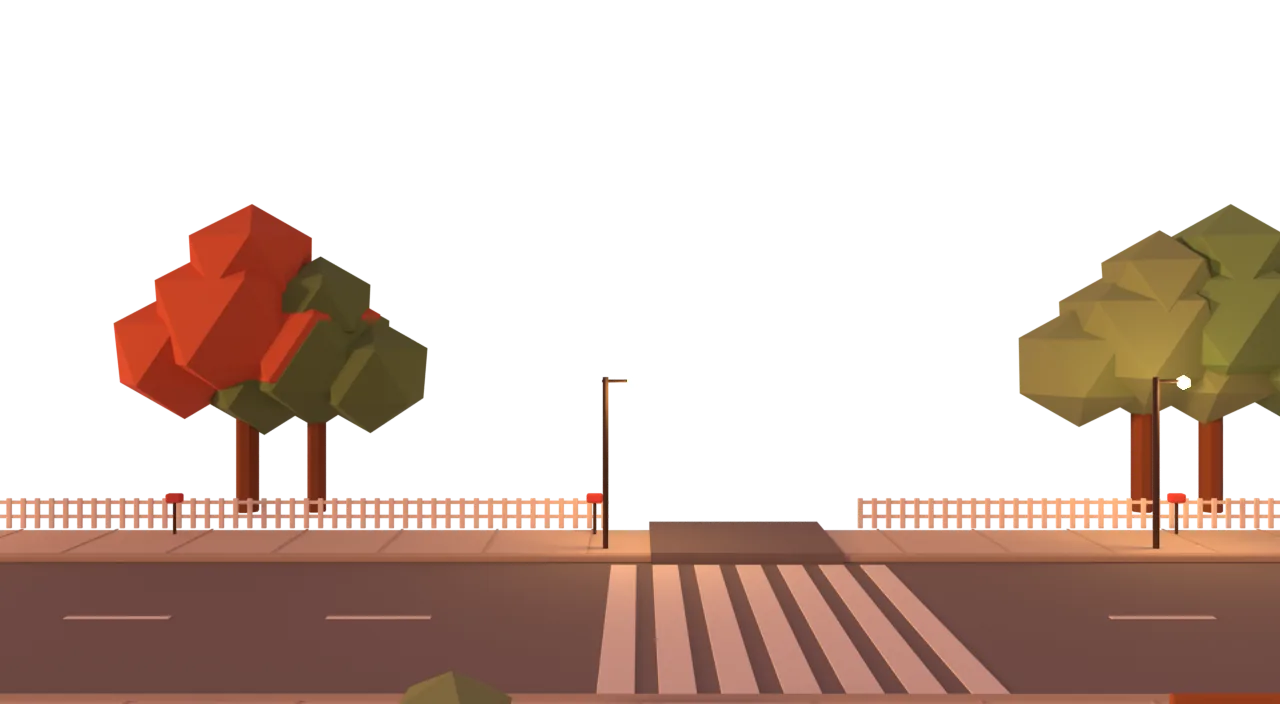
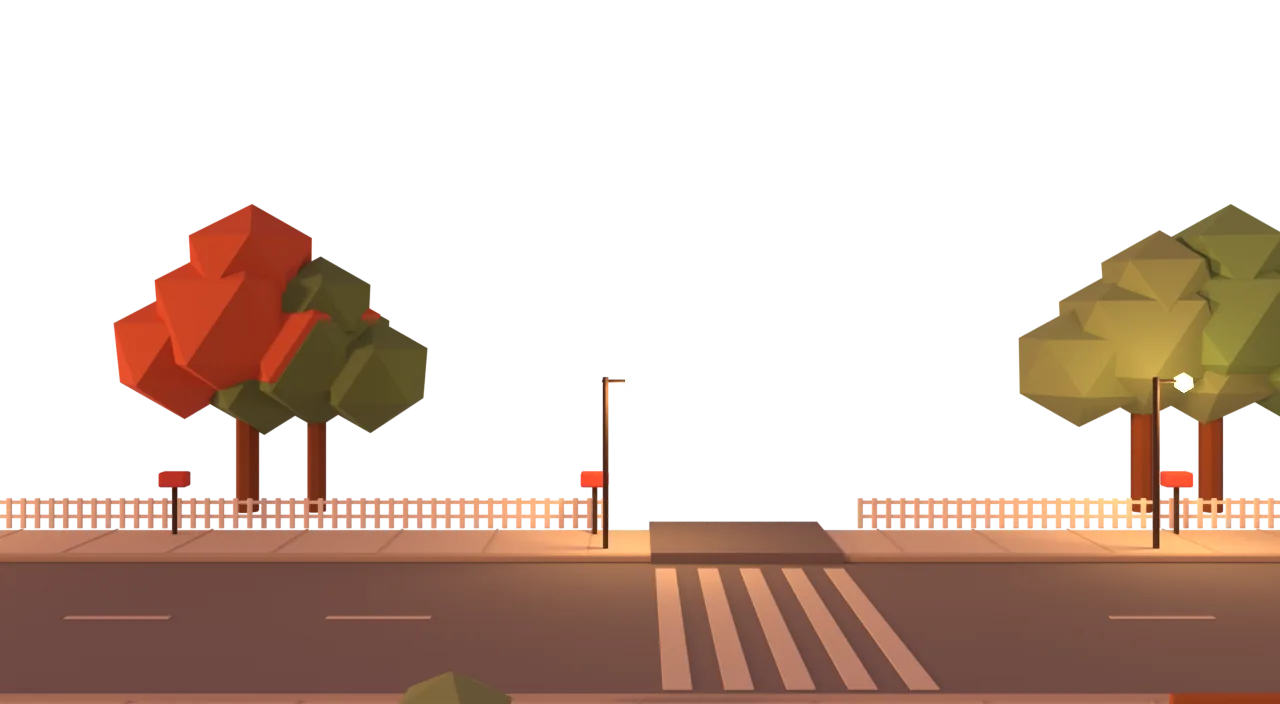
fix(ios): suburb diorama: warmer night, quieter crosswalk, bigger mailboxes and steeple

diff --git a/tools/scene-bake/city_diorama.py b/tools/scene-bake/city_diorama.py
@@ -42,7 +42,7 @@ WALLS = [0xF6E4C8, 0xE8D2B2, 0xF2C79A, 0xE9A98A, 0xD8653F, 0xB9C9A2, 0xF0B7B0, 0
 ROOFS = [0xB46C3C, 0x8C4F2B, 0xA85A3A, 0x7A5A4A, 0xC8653F]
 WOOD = 0xB46C3C
 LEAF = [0x93A86A, 0x6F8A4E, 0x7FA35F, 0xA3B56F]
-ROAD_C, SIDEWALK_C, CURB_C, STRIPE_C = 0x8A7F78, 0xE6D4B8, 0xCDB89A, 0xFAF1DF
+ROAD_C, SIDEWALK_C, CURB_C, STRIPE_C = 0x8A7F78, 0xE6D4B8, 0xCDB89A, 0xE6D6BA
 CAR_PAINTS = [0xE0554A, 0xE3B45C, 0x6F8FB0, 0x7C9A7E, 0xF2E6D2, 0xD8653F]
 
 # Per time of day: sky top / horizon, sun colour / strength / elevation / azimuth (degrees), ambient, share of lit
@@ -52,7 +52,7 @@ LOOKS = {
                 lit=0.0, lamps=False, glow=0, haze=0.5),
     "dusk": dict(top=0x6C6FB4, horizon=0xF7A872, sun=0xFFB27A, sun_strength=2.0, elev=9, azim=-70, ambient=0.8,
                  lit=0.4, lamps=True, glow=5, haze=0.5),
-    "night": dict(top=0x141A3E, horizon=0x3A3C78, sun=0xA9B9FF, sun_strength=0.35, elev=38, azim=-55, ambient=0.28,
+    "night": dict(top=0x2A2352, horizon=0x6A4F7E, sun=0xC9B9FF, sun_strength=0.5, elev=38, azim=-55, ambient=0.4,
                   lit=0.62, lamps=True, glow=8, haze=0.45),
 }
 LOOK = LOOKS[TIME]
@@ -165,7 +165,7 @@ def blob(layer, radius, at, mat, scale=(1, 1, 1)):
 def window_glass(haze, lit):
     if lit and LOOK["glow"] > 0:
         warm = LIT.random() < 0.8
-        return material(0xFFD27A if warm else 0xCFE6FF, haze=haze * 0.5, glow=LOOK["glow"] * LIT.uniform(0.6, 1.0),
+        return material(0xFFD27A if warm else 0xCFE6FF, haze=haze * 0.5, glow=LOOK["glow"] * 0.6 * LIT.uniform(0.6, 1.0),
                         glow_color=0xFFC070 if warm else 0xBFD8FF, key=("lit", warm, LIT.randint(0, 3)))
     sky = 0x9DB4C8 if TIME == "day" else (0x6F7396 if TIME == "dusk" else 0x1E2447)
     return material(sky, rough=0.25, haze=haze, key=("glass", TIME))
@@ -283,19 +283,19 @@ def fence(layer, x0, x1, y, haze=0.0):
 
 
 def mailbox(layer, x, y):
-    cyl(layer, 0.05, 1.0, (x, y, 0.18), material(0x4A3A33, key="post"), verts=5)
-    box(layer, (0.5, 0.25, 0.28), (x, y, 1.15), material(0xE0554A, key="mail"), bevel=0.06)
+    cyl(layer, 0.08, 1.5, (x, y, 0.18), material(0x4A3A33, key="post"), verts=5)
+    box(layer, (0.85, 0.42, 0.45), (x, y, 1.65), material(0xE0554A, key="mail"), bevel=0.06)
 
 
 def lamp(layer, x, y, haze=0.0):
     post = material(0x4A3A33, haze=haze)
     cyl(layer, 0.09, 5.0, (x, y, 0.15), post, verts=6)
     box(layer, (0.9, 0.08, 0.08), (x + 0.35, y, 5.0), post, bevel=0.02)
-    bulb = material(0xFFE3A8, glow=12 if LOOK["lamps"] else 0.0, glow_color=0xFFC27A, key="bulb")
-    blob(layer, 0.2, (x + 0.8, y, 5.0), bulb)
+    bulb = material(0xFFE3A8, glow=6 if LOOK["lamps"] else 0.0, glow_color=0xFFC27A, key="bulb")
+    blob(layer, 0.28, (x + 0.8, y, 5.0), bulb)
     if LOOK["lamps"]:
         light = bpy.data.lights.new(f"l{x}", "POINT")
-        light.energy = 450
+        light.energy = 900
         light.color = rgb(0xFFC27A)
         light.shadow_soft_size = 0.4
         o = bpy.data.objects.new(f"l{x}", light)
@@ -319,10 +319,10 @@ def build_far():
         blob("far", 38, (x, 120 + (i % 2) * 15, -2), material(hill[i % 3], haze=0.8), (1.3, 1, 0.55))
     for x in range(-80, 90, 9):
         tree("far", x + random.uniform(-2, 2), random.choice([80, 88]), random.choice([0.9, 1.1, 1.3]), haze=0.85)
-    box("far", (4, 4, 9), (-24, 92, 0), material(0xF6E4C8, haze=0.85, key="church"), bevel=0.2)
-    prism("far", (4, 4, 5), (-24, 92, 9), material(0xA85A3A, haze=0.85, key="spire"), ridge="x", overhang=0.1)
-    box("far", (2.6, 2.6, 7), (-24, 92, 14), material(0xF6E4C8, haze=0.85, key="church"), bevel=0.1)
-    prism("far", (2.6, 2.6, 6), (-24, 92, 21), material(0xA85A3A, haze=0.85, key="spire"), ridge="x", overhang=0.2)
+    box("far", (6, 6, 9), (-24, 92, 0), material(0xF6E4C8, haze=0.85, key="church"), bevel=0.2)
+    prism("far", (6, 6, 4), (-24, 92, 9), material(0xA85A3A, haze=0.85, key="spire"), ridge="x", overhang=0.1)
+    box("far", (3.4, 3.4, 7), (-24, 92, 13), material(0xF6E4C8, haze=0.85, key="church"), bevel=0.1)
+    prism("far", (3.4, 3.4, 9), (-24, 92, 20), material(0xA85A3A, haze=0.85, key="spire"), ridge="x", overhang=0.2)
     for x in (-60, -40, 6, 28, 52, 70):
         house("far", x, 62, random.choice(["colonial", "bungalow"]), haze=0.75)
     ground("far", 40, 160, 0xB5C48A, haze=0.8, key="farground")
@@ -362,8 +362,8 @@ def build_street():
     cut = material(ROAD_C, key="cross")
     box("street", (gx1 - gx0, 4.5, 0.3), ((gx0 + gx1) / 2, r1 + 2.1, 0.0), cut, bevel=0)
     stripe = material(STRIPE_C)
-    for i in range(-3, 4):
-        box("street", (0.7, r1 - r0 - 0.8, 0.03), (GAP_X + i * 1.15, (r0 + r1) / 2, 0.0), stripe, bevel=0.02)
+    for i in range(-2, 3):
+        box("street", (0.55, r1 - r0 - 1.6, 0.03), (GAP_X + i * 1.15, (r0 + r1) / 2, 0.0), stripe, bevel=0.02)
     for x in range(-90, 100, 6):
         if abs(x - GAP_X) > 6:
             box("street", (2.4, 0.18, 0.03), (x, (r0 + r1) / 2, 0.0), stripe, bevel=0.02)
